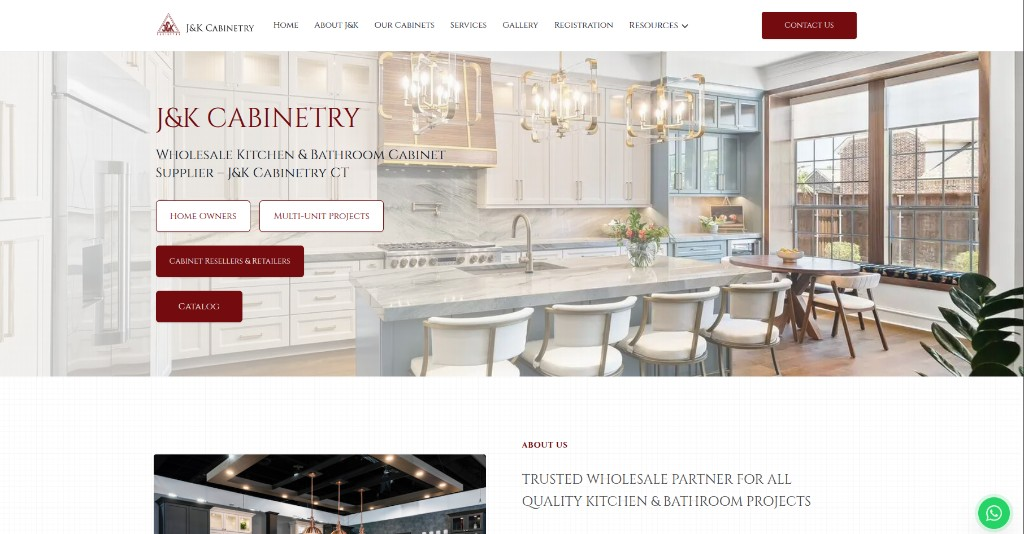
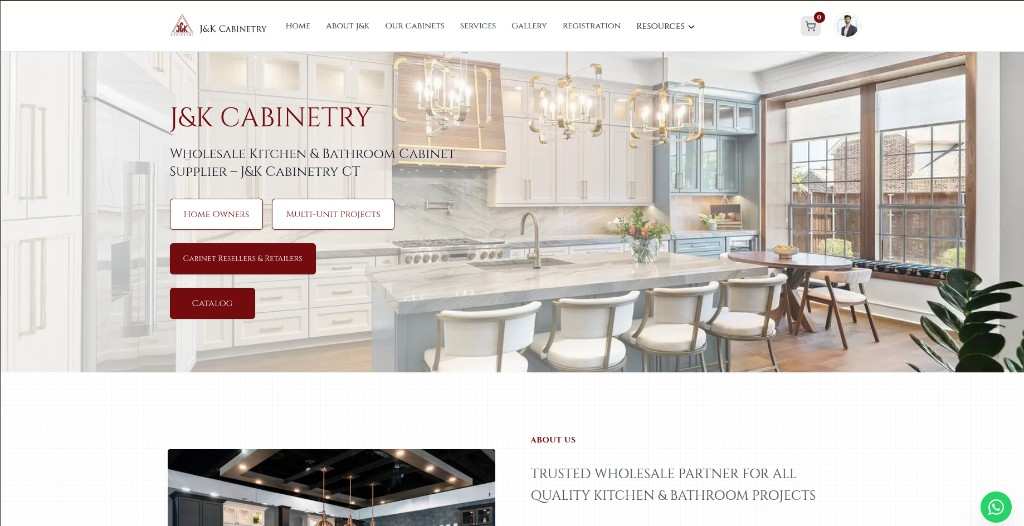
Remove unused images and update project data with new image references for J&K Cabinetry CT project

diff --git a/src/app/projects/projectsData.ts b/src/app/projects/projectsData.ts
@@ -66,10 +66,11 @@ export const projectsData: Project[] = [
     ],
     images: [
       "/jk-cabinetry-home.png",
-      "/jk-cabinetry-registration.png",
-      "/jk-cabinetry-dashboard-users.png",
-      "/jk-cabinetry-dashboard-collections.png",
-      "/jk-cabinetry-dashboard-cabinets.png",
+      "/jk-cabinetry-collections.png",
+      "/jk-cabinetry-customer-dashboard.png",
+      "/jk-cabinetry-customer-messages.png",
+      "/jk-cabinetry-admin-users.png",
+      "/jk-cabinetry-admin-orders.png",
     ],
     live: "https://jkcabinetryct.com/",
     code: "https://github.com/reazulislamreaz/jk-cabinetryct-frontend",